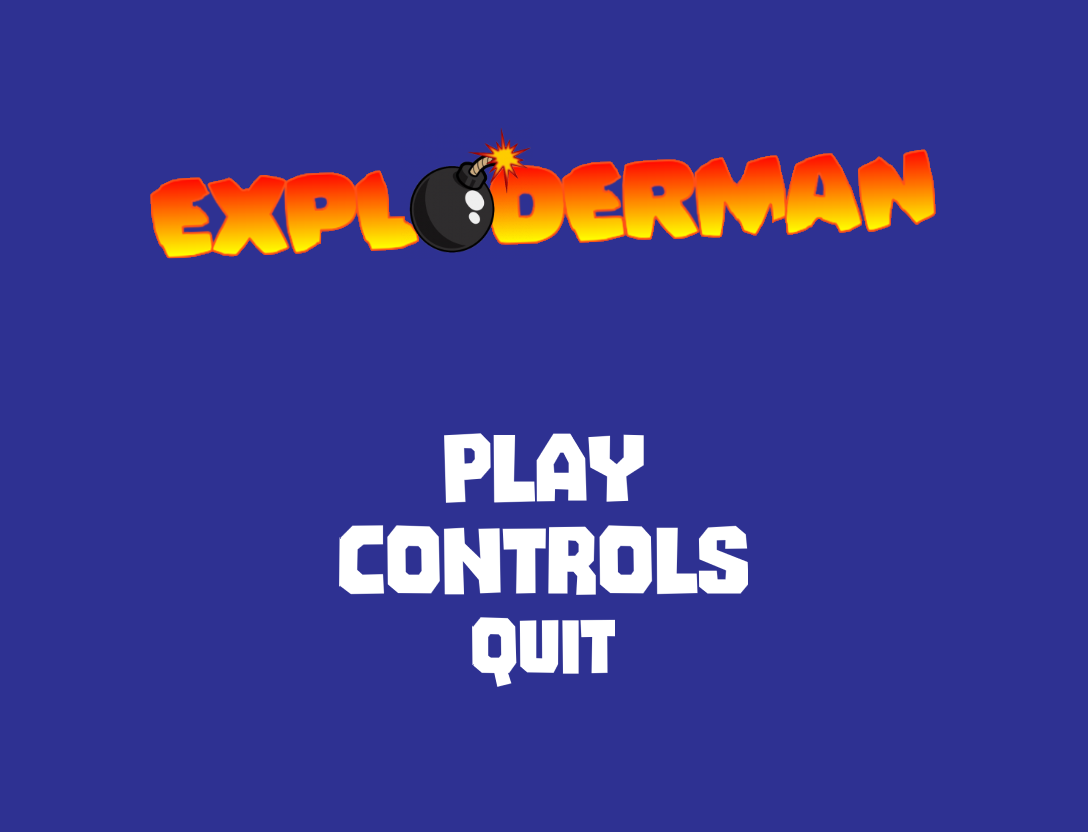
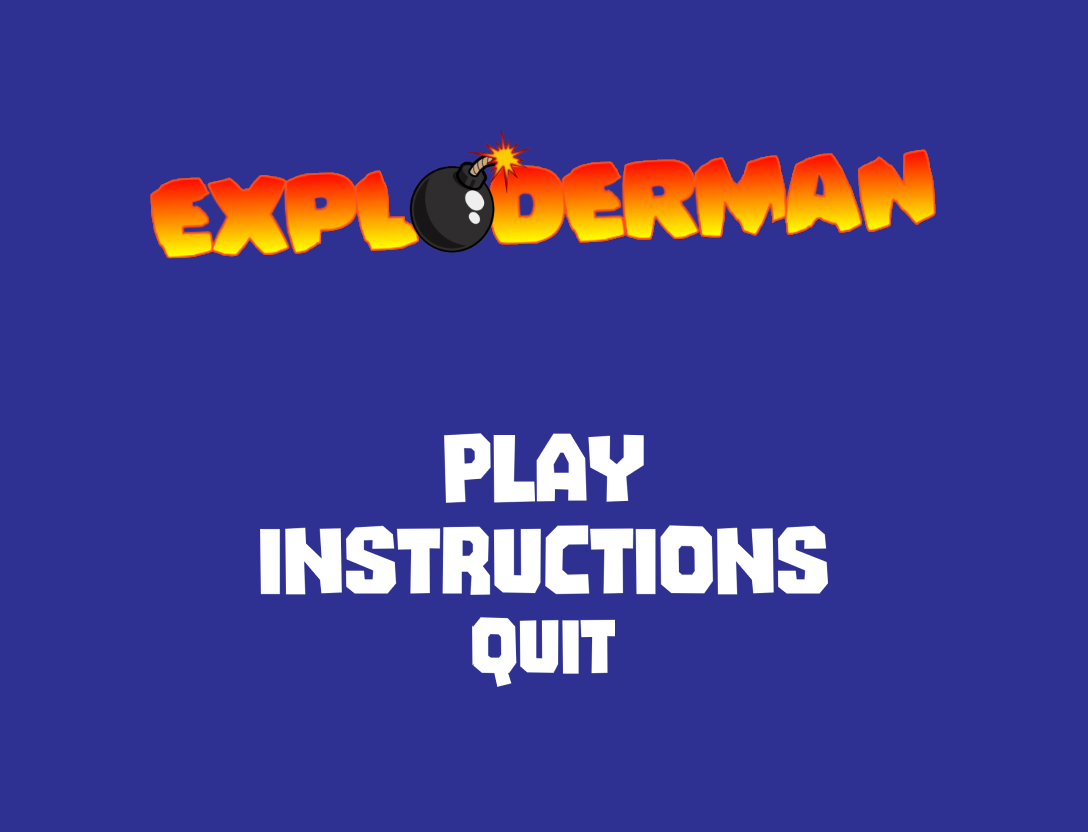
Changed menu option from "controls" to "instructions"

Changed region(s): [[0.2188, 0.625, 0.7812, 0.7188]]

diff --git a/game.c b/game.c
@@ -38,9 +38,9 @@ PUBLIC Game createGame() {
     game->menuOptionPos[0].w = 212;
     game->menuOptionPos[0].h = 71;
 
-    game->menuOptionPos[1].x = 336;             // 'CONTROLS' button in menu
+    game->menuOptionPos[1].x = 258;             // 'INSTRUCTIONS' button in menu
     game->menuOptionPos[1].y = 521;
-    game->menuOptionPos[1].w = 419;
+    game->menuOptionPos[1].w = 578;
     game->menuOptionPos[1].h = 71;
 
     game->menuOptionPos[2].x = 470;             // 'QUIT' button in menu
@@ -68,7 +68,7 @@ PUBLIC void updateGame(Game game) {
     int newMove = 1, lastMove = 0;
     int frames = 0;                 // Used for character refresh rate in gameLogic.c
     bool inMenu = true;
-    bool inControls = false;
+    bool inInstructions = false;
     int mousePos_x, mousePos_y;
     bool menuOptionSelected[MENUOPTIONS] = { 0,0,0,0 };
     const Uint8* currentKeyStates;
@@ -91,7 +91,7 @@ PUBLIC void updateGame(Game game) {
             else {
                 mousePos_x = game->event.motion.x;
                 mousePos_y = game->event.motion.y;
-                if (!inControls) {
+                if (!inInstructions) {
                     for (int i = 0; i < MENUOPTIONS; i++) {
                         if (mousePos_x >= 440 && mousePos_x <= 650 && mousePos_y >= 430 && mousePos_y <= 505) {         // Om musen är på "PLAY"
                             if (!menuOptionSelected[0]) {
@@ -107,12 +107,12 @@ PUBLIC void updateGame(Game game) {
                             }
                         }
 
-                        if (mousePos_x >= 336 && mousePos_x <= 750 && mousePos_y >= 525 && mousePos_y <= 596) {         // Om musen är på "CONTROLS"
+                        if (mousePos_x >= 259 && mousePos_x <= 828 && mousePos_y >= 525 && mousePos_y <= 595) {         // Om musen är på "INSTRUCTIONS"
                             if (!menuOptionSelected[1]) {
                                 menuOptionSelected[1] = true;
                             }
                             if (game->event.type == SDL_MOUSEBUTTONDOWN) {
-                                inControls = true;
+                                inInstructions = true;
                                 menuOptionSelected[1] = false;
                             }
                         }
@@ -143,7 +143,7 @@ PUBLIC void updateGame(Game game) {
                             menuOptionSelected[3] = true;
                         }
                         if (game->event.type == SDL_MOUSEBUTTONDOWN) {
-                            inControls = false;
+                            inInstructions = false;
                         }
                     }
                     else {
@@ -185,8 +185,8 @@ PUBLIC void updateGame(Game game) {
         else {
             SDL_RenderClear(game->renderer);
             SDL_RenderCopy(game->renderer, game->startMenu, NULL, NULL);
-            if (inControls) {
-                SDL_RenderCopy(game->renderer, game->controlsMenu, NULL, NULL);
+            if (inInstructions) {
+                SDL_RenderCopy(game->renderer, game->instructionsMenu, NULL, NULL);
                 if (menuOptionSelected[3]) {
                     SDL_RenderCopy(game->renderer, game->redBack, NULL, &game->menuOptionPos[3]);
                 }
@@ -195,7 +195,7 @@ PUBLIC void updateGame(Game game) {
                 SDL_RenderCopy(game->renderer, game->redPlay, NULL, &game->menuOptionPos[0]);
             }
             else if (menuOptionSelected[1]) {
-                SDL_RenderCopy(game->renderer, game->redControls, NULL, &game->menuOptionPos[1]);
+                SDL_RenderCopy(game->renderer, game->redInstructions, NULL, &game->menuOptionPos[1]);
             }
             else if (menuOptionSelected[2]) {
                 SDL_RenderCopy(game->renderer, game->redQuit, NULL, &game->menuOptionPos[2]);
@@ -245,14 +245,14 @@ PRIVATE bool createStartMenu(Game game) {
     SDL_strlcpy(pictureDestination, "resources/Menu.png", sizeof pictureDestination);
     loadTextures(&game->renderer, &game->bitmapSurface, &game->startMenu, pictureDestination);
 
-    SDL_strlcpy(pictureDestination, "resources/Controls-Menu.png", sizeof pictureDestination);
-    loadTextures(&game->renderer, &game->bitmapSurface, &game->controlsMenu, pictureDestination);
+    SDL_strlcpy(pictureDestination, "resources/Instructions-Menu.png", sizeof pictureDestination);
+    loadTextures(&game->renderer, &game->bitmapSurface, &game->instructionsMenu, pictureDestination);
 
     SDL_strlcpy(pictureDestination, "resources/Play.png", sizeof pictureDestination);
     loadTextures(&game->renderer, &game->bitmapSurface, &game->redPlay, pictureDestination);
 
-    SDL_strlcpy(pictureDestination, "resources/Controls.png", sizeof pictureDestination);
-    loadTextures(&game->renderer, &game->bitmapSurface, &game->redControls, pictureDestination);
+    SDL_strlcpy(pictureDestination, "resources/Instructions.png", sizeof pictureDestination);
+    loadTextures(&game->renderer, &game->bitmapSurface, &game->redInstructions, pictureDestination);
 
     SDL_strlcpy(pictureDestination, "resources/Quit.png", sizeof pictureDestination);
     loadTextures(&game->renderer, &game->bitmapSurface, &game->redQuit, pictureDestination);

diff --git a/game.h b/game.h
@@ -26,9 +26,9 @@ typedef struct GameSettings {
     SDL_Texture *background;             //Anv�nds f�r att ladda in bilden av bakgrunden
     SDL_Texture *box;                   //Anv�nds f�r att ladda in bilden av l�dan
     SDL_Texture *startMenu;
-    SDL_Texture *controlsMenu;
+    SDL_Texture *instructionsMenu;
     SDL_Texture *redPlay;
-    SDL_Texture *redControls;
+    SDL_Texture *redInstructions;
     SDL_Texture *redQuit;
     SDL_Texture *redBack;
     SDL_Rect menuOptionPos[MENUOPTIONS];
